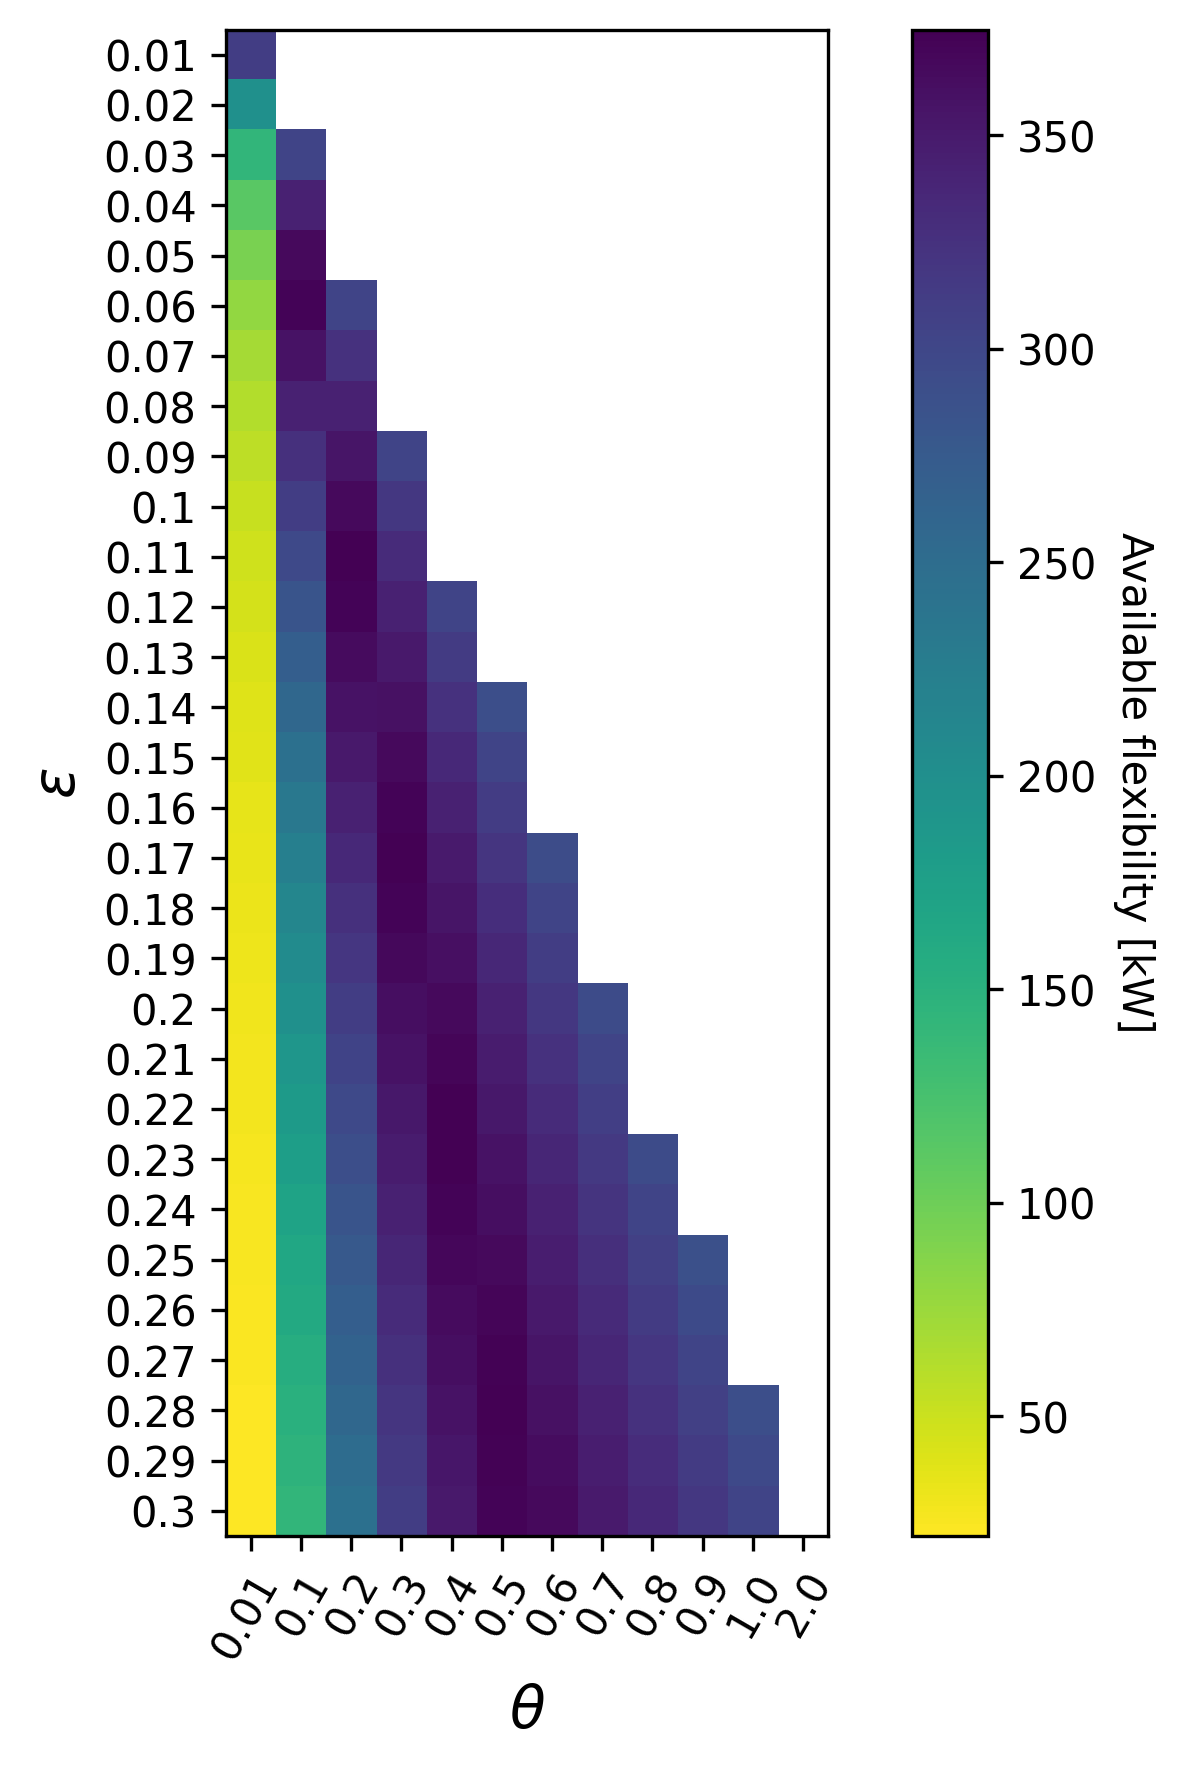
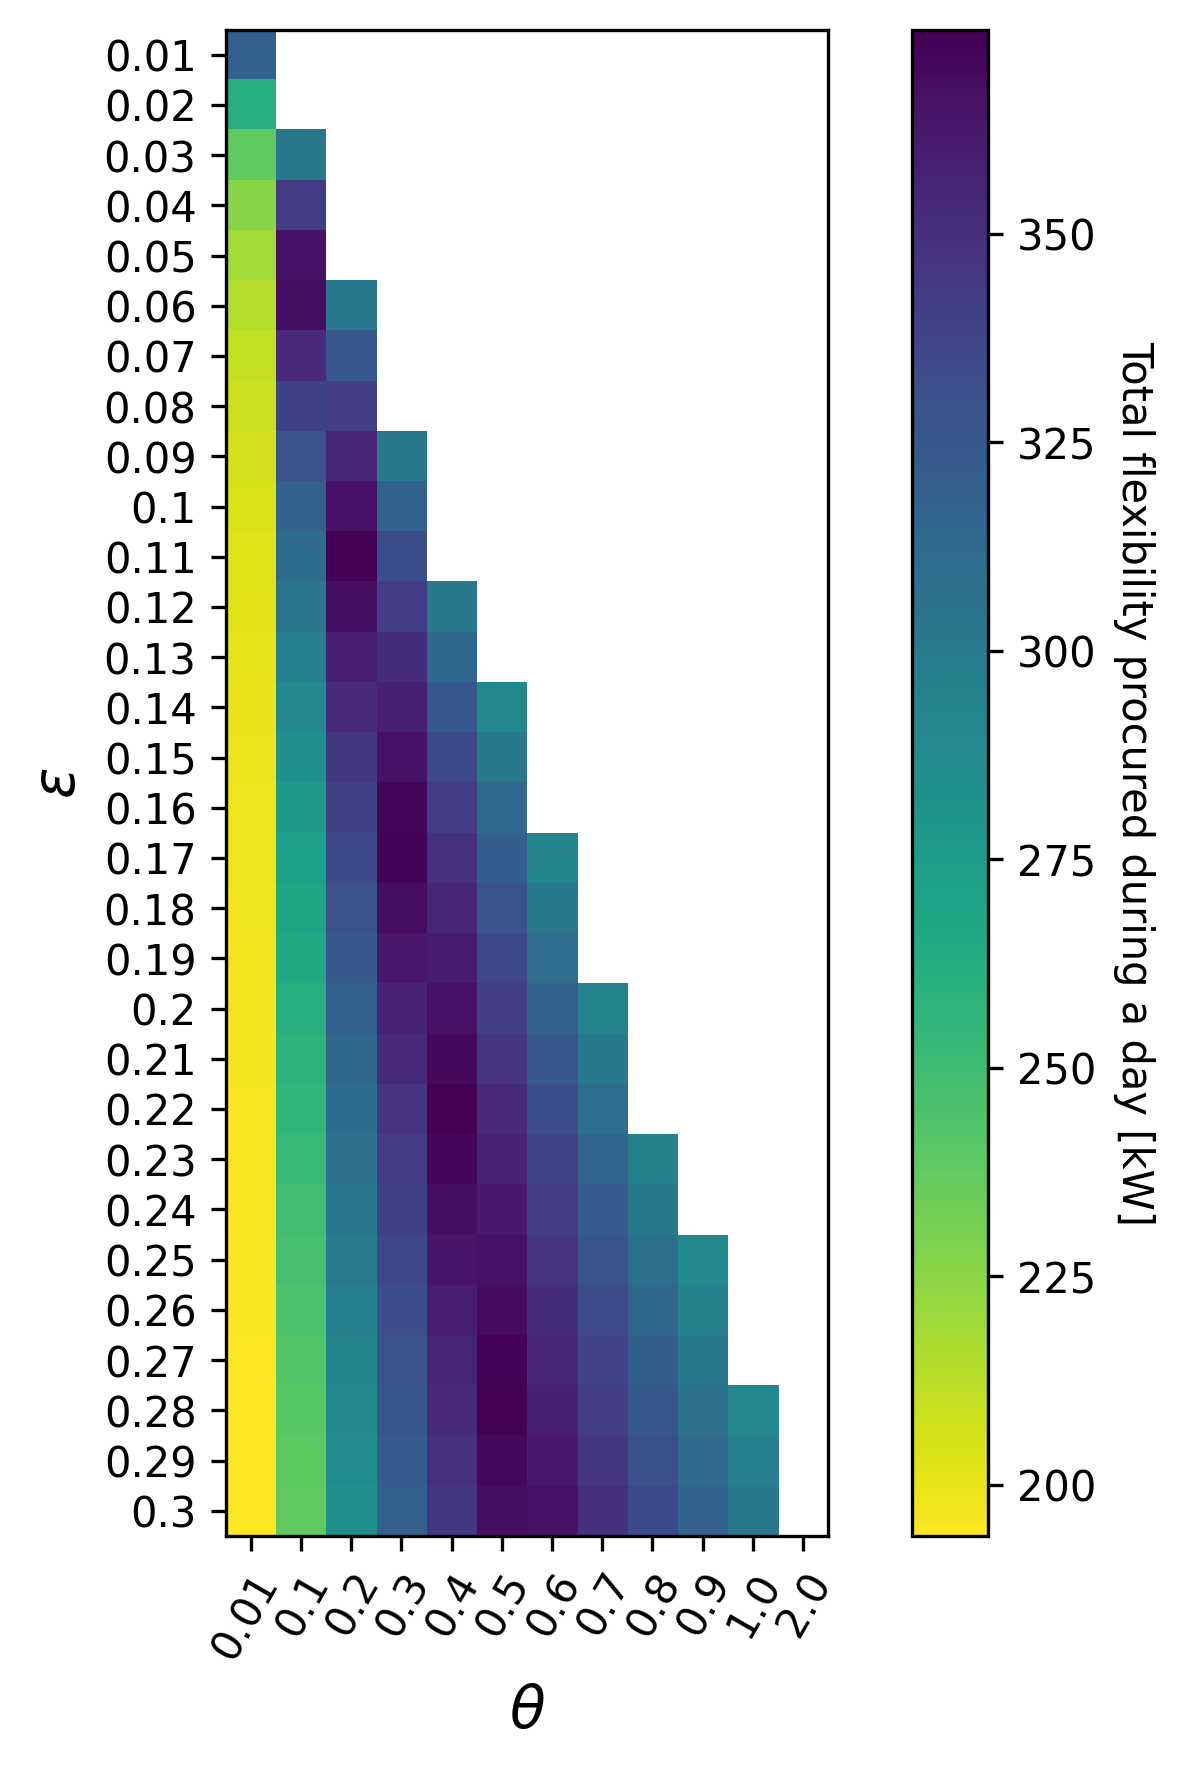
Fix nu_sum bug.

diff --git a/src/main.py b/src/main.py
@@ -22,7 +22,7 @@ P90_EPSILON = 0.10
 
 RUN_ALL_THREE = False
 RUN_THREE_THETA_RESULTS = False
-RUN_BI_LEVEL = False
+RUN_BI_LEVEL = True
 
 p_cap_opt, p_cap_opt2, p_cap_opt3, p_cap_opt4, p_cap_opt5 = None, None, None, None, None  # type: ignore
 is_result, is_result2, is_result3, is_result4, is_result5 = None, None, None, None, None  # type: ignore
@@ -486,7 +486,7 @@ print(matrix.shape)
 print(np.nanmax(matrix))
 # get row index and col index for max value
 row_ix, col_ix = np.where(matrix == np.nanmax(matrix))
-assert np.isclose(np.nanmax(matrix), matrix[row_ix, col_ix])
+assert np.isclose(np.nanmax(matrix), matrix[row_ix, col_ix]).all()
 print(f"Optimal epsilon: {EPSILON[row_ix[0]]}")
 print(f"Optimal theta: {opt_instance.drjcc.theta_list[col_ix[0]]}")
 
@@ -497,7 +497,9 @@ cmap = plt.cm.get_cmap("viridis_r")  # type: ignore
 ax.imshow(matrix, cmap=cmap, interpolation="nearest")
 # colorbar
 cbar = ax.figure.colorbar(ax.imshow(matrix, cmap=cmap, interpolation="nearest"))
-cbar.ax.set_ylabel("Available flexibility [kW]", rotation=-90, va="bottom")
+cbar.ax.set_ylabel(
+    "Total flexibility procured during a day [kW]", rotation=-90, va="bottom"
+)
 ax.set_xlabel(r"$\theta$")
 ax.set_ylabel(r"$\epsilon$")
 ax.set_xticks(np.arange(theta_length))

diff --git a/src/bi_level.py b/src/bi_level.py
@@ -266,9 +266,10 @@ def run_bi_level(
                 continue
 
             p_cap_opt_, nu, q = local.get_var_values()
-            nu_sum = nu.reshape(no_samples, 24, -1).sum(axis=2).mean(axis=0).sum() / 60
-            penalty = exponential_function(sum(q) / no_samples)
-            outer_obj = sum(p_cap_opt_) - nu_sum * penalty
+            nu_sum = nu.reshape(no_samples, 24, -1).sum(axis=2).sum(axis=1).mean()
+            penalty = 0
+            outer_obj = sum(p_cap_opt_) - nu_sum  # - nu_sum * penalty
+            assert sum(p_cap_opt_) >= nu_sum
             print(f"nu: {nu_sum}, outer obj: {outer_obj}")
 
             # save result if it's not bogus
@@ -306,8 +307,7 @@ def run_bi_level(
                     .sum()
                     / 60
                 )
-                violation_frequency = oos_result.freq
-                penalty_oos = exponential_function(violation_frequency)
+                penalty_oos = 0
                 outer_obj_oos = sum(p_cap_opt_) - nu_sum_oos * penalty_oos
                 outer_obj_oos = max(outer_obj_oos, 0)
                 grid_result_oos.append(
